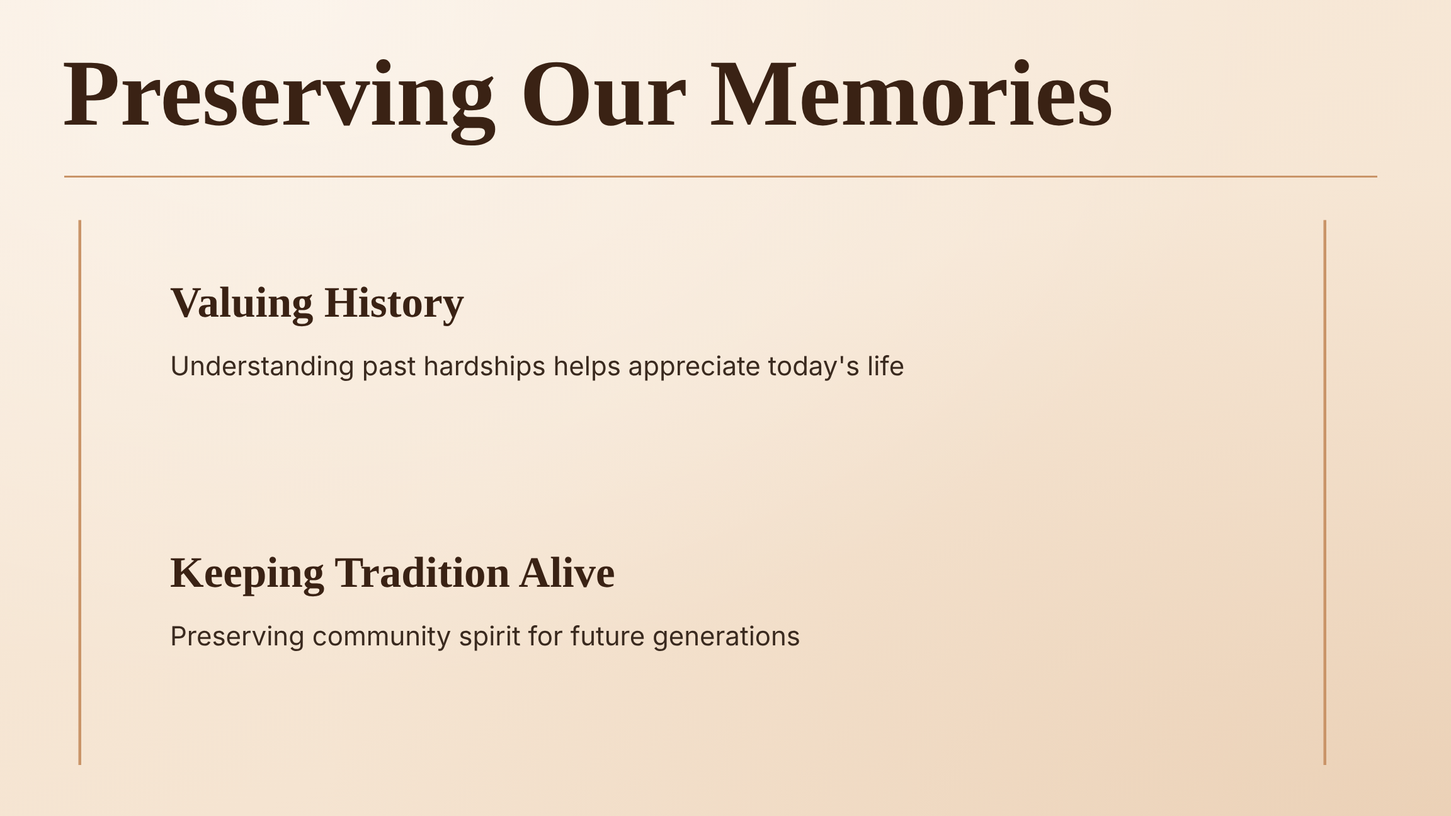
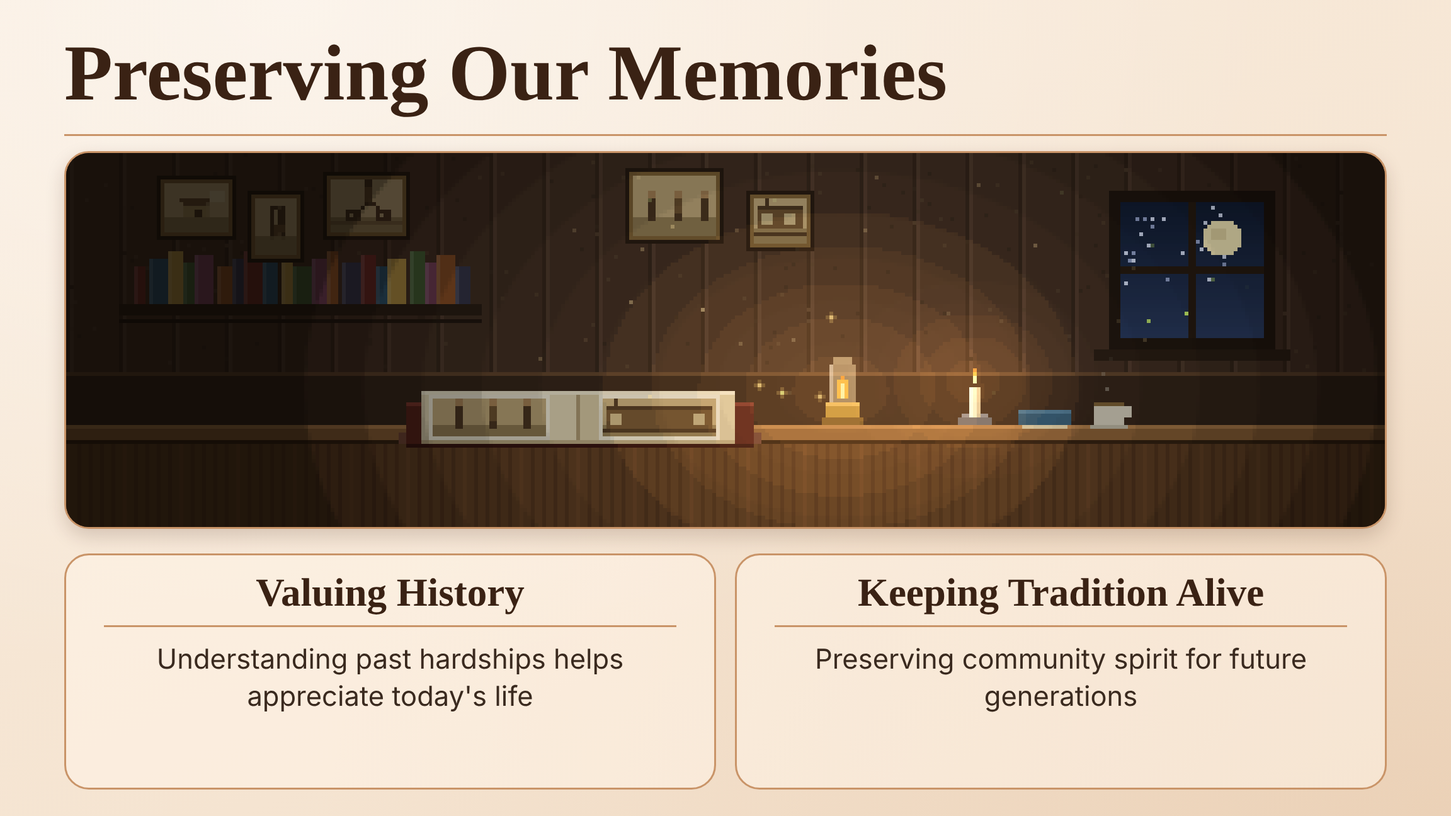
Slide 9: phòng ký ức pixel (album tự lật, đèn dầu truyền lửa sang nến)
Claude-Session: https://claude.ai/code/session_015dETkK63Reb6JNnJAvDzmD

diff --git a/slide9-anim.html b/slide9-anim.html
@@ -1,0 +1,342 @@
+<!DOCTYPE html>
+<html lang="en">
+<head>
+  <meta charset="UTF-8">
+  <meta name="viewport" content="width=device-width, initial-scale=1.0">
+  <title>Slide 9 - preserving memories</title>
+  <link rel="preconnect" href="https://fonts.googleapis.com">
+  <link rel="preconnect" href="https://fonts.gstatic.com" crossorigin>
+  <link href="https://fonts.googleapis.com/css2?family=Tinos:wght@400;700&family=Public+Sans:wght@400;500&display=swap" rel="stylesheet">
+  <link rel="stylesheet" href="slides.css">
+  <style>
+    html, body { background: #1b1412; }
+    body { padding: 0; overflow: hidden; }
+    .deck { position: absolute; left: 0; top: 0; transform-origin: 0 0; zoom: 1; display: block; gap: 0; }
+    /* Bố cục slide 9: phòng ký ức rộng ở trên, hai thẻ ý chính nằm ngay dưới */
+    .s9 .title { top: 34px; left: 68px; font-size: 84px; }
+    .s9 .rule { top: 142px; left: 68px; right: 68px; }
+    .vpanel { left: 68px; top: 160px; width: 1400px; height: 400px; border: 2px solid var(--line); border-radius: 26px; overflow: hidden;
+              box-shadow: 0 8px 20px rgba(60,30,10,.18); background: #2a1c12; }
+    #scene { position: absolute; left: 0; top: 0; width: 1400px; height: 400px; image-rendering: pixelated; }
+    .s9 .card { position: absolute; padding: 16px 40px 0; align-items: stretch; justify-content: flex-start; text-align: center; }
+    .s9 .card h3 { font-size: 42px; padding-bottom: 10px; margin-bottom: 14px; border-bottom: 2px solid var(--line); }
+    .s9 .card p { font: 400 29px/1.35 var(--sans); max-width: none; }
+    .s9 .c1 { left: 68px; top: 586px; width: 690px; height: 250px; }
+    .s9 .c2 { left: 778px; top: 586px; width: 690px; height: 250px; }
+  </style>
+</head>
+<body>
+<!--
+  SLIDE 9 (động): căn phòng ký ức ban đêm - bàn gỗ, cuốn album ảnh cũ tự lật trang (nhà tranh, giếng, xe đạp, trẻ chơi, xe điện),
+  đèn dầu chập chờn, hạt sáng bay lên, đom đóm ngoài cửa sổ. Mỗi 22 giây ngọn lửa truyền từ đèn dầu sang cây nến nhỏ:
+  "giữ lửa" cho thế hệ sau. Cảnh vẽ bằng code trong <canvas id="scene"> (350x100 điểm ảnh, mỗi điểm = 4px).
+  Mở với ?still=giây để dừng ở một khung hình.
+-->
+<main class="deck">
+  <section class="slide s9" id="slide9">
+    <h2 class="title">Preserving Our Memories</h2>
+    <hr class="rule">
+    <div class="vpanel"><canvas id="scene" width="350" height="100"></canvas></div>
+    <article class="card c1"><h3>Valuing History</h3><p>Understanding past hardships helps appreciate today's life</p></article>
+    <article class="card c2"><h3>Keeping Tradition Alive</h3><p>Preserving community spirit for future generations</p></article>
+  </section>
+</main>
+
+<script>
+(() => {
+  const EMBED = location.search.includes('embed');
+  const STILL = (/[?&]still=([\d.]+)/.exec(location.search) || [])[1];
+  const deck = document.querySelector('.deck');
+  function fit() {
+    const k = EMBED ? Math.max(innerWidth / 1536, innerHeight / 864) : Math.min(innerWidth / 1536, innerHeight / 864);
+    Object.assign(deck.style, { transform: 'scale(' + k + ')', left: ((innerWidth - 1536 * k) / 2) + 'px', top: ((innerHeight - 864 * k) / 2) + 'px' });
+  }
+  if (EMBED) document.body.style.cssText = 'background:transparent;padding:0;overflow:hidden';
+  addEventListener('resize', fit); fit();
+
+  const W = 350, H = 100;
+  const cv = document.getElementById('scene'), g = cv.getContext('2d');
+  const bgc = document.createElement('canvas'); bgc.width = W; bgc.height = H;
+  const bg = bgc.getContext('2d');
+  const mulberry = (a) => () => { a |= 0; a = a + 0x6D2B79F5 | 0; let t = Math.imul(a ^ a >>> 15, 1 | a); t = t + Math.imul(t ^ t >>> 7, 61 | t) ^ t; return ((t ^ t >>> 14) >>> 0) / 4294967296; };
+  const srnd = mulberry(1980);
+  let seed = 11;
+  const rnd = () => { seed |= 0; seed = seed + 0x6D2B79F5 | 0; let t = Math.imul(seed ^ seed >>> 15, 1 | seed); t = t + Math.imul(t ^ t >>> 7, 61 | t) ^ t; return ((t ^ t >>> 14) >>> 0) / 4294967296; };
+  const lerp = (a, b, t) => a + (b - a) * t;
+  const hex = (h) => [parseInt(h.slice(1, 3), 16), parseInt(h.slice(3, 5), 16), parseInt(h.slice(5, 7), 16)];
+  const mix = (a, b, t) => 'rgb(' + hex(a).map((v, i) => Math.round(lerp(v, hex(b)[i], t))).join(',') + ')';
+  const R = (c, x, y, w, h, col) => { c.fillStyle = col; c.fillRect(Math.round(x), Math.round(y), w, h); };
+  function px(c, x, y, col) { c.fillStyle = col; c.fillRect(Math.round(x), Math.round(y), 1, 1); }
+  function line(fn, x0, y0, x1, y1) { const n = Math.max(Math.abs(x1 - x0), Math.abs(y1 - y0), 1); for (let i = 0; i <= n; i++) fn(Math.round(x0 + (x1 - x0) * i / n), Math.round(y0 + (y1 - y0) * i / n)); }
+  const L = (c, x0, y0, x1, y1, col) => line((a, b) => px(c, a, b, col), x0, y0, x1, y1);
+  const smooth = (a, b, x) => { const t = Math.max(0, Math.min(1, (x - a) / (b - a))); return t * t * (3 - 2 * t); };
+  function ellipse(c, cx, cy, rx, ry, col) {
+    c.fillStyle = col;
+    for (let y = -ry; y <= ry; y++) { const w = Math.round(rx * Math.sqrt(1 - (y * y) / (ry * ry + 0.0001))); c.fillRect(Math.round(cx - w), Math.round(cy + y), w * 2, 1); }
+  }
+  function hut(c, x, base, w, flip) {
+    const wallTop = base - 22, roofH = 24, roofTop = wallTop - roofH + 4;
+    ellipse(c, x + w / 2, base, w / 2 + 3, 2, 'rgba(70,50,20,.25)');
+    R(c, x + 4, wallTop, w - 8, 22, '#d6b688');                         // tường đất
+    for (let k = 0; k < 40; k++) R(c, x + 4 + srnd() * (w - 8), wallTop + srnd() * 22, 2, 1, srnd() < 0.5 ? '#c4a373' : '#e4c99c');
+    R(c, x + 4, wallTop, w - 8, 1, '#a98a5c');
+    const dx = flip ? x + w - 22 : x + 12;
+    R(c, dx, wallTop + 8, 10, 14, '#4a3320'); R(c, dx + 1, wallTop + 9, 8, 13, '#2f2014');         // cửa
+    const wx = flip ? x + 10 : x + w - 20;
+    R(c, wx, wallTop + 6, 8, 7, '#5a4128'); R(c, wx + 1, wallTop + 7, 6, 5, '#caa66e'); R(c, wx + 4, wallTop + 7, 1, 5, '#5a4128');   // cửa sổ
+    for (let r = 0; r < roofH; r++) {                                   // mái lá: tam giác thô, vệt rơm
+      const hw = Math.round(w / 2 - 2 + r * 0.28 - (roofH - r) * 0.9 * (w / 56) + (roofH - r) * 0.9 * (w / 56) - (roofH - r) * (w / 2 - 6) / roofH + 6);
+      const half = Math.round(6 + r * ((w / 2 + 2) - 6) / (roofH - 1));
+      const cx = x + w / 2;
+      R(c, cx - half, roofTop + r, half * 2, 1, r % 4 === 3 ? '#7d5a30' : '#a07844');
+      if (r % 4 !== 3) for (let k = 0; k < half / 3; k++) R(c, cx - half + srnd() * half * 2, roofTop + r, 1, 1, srnd() < 0.5 ? '#b88c52' : '#8a6535');
+      R(c, cx - half, roofTop + r, 1, 1, '#6e4c28'); R(c, cx + half - 1, roofTop + r, 1, 1, '#6e4c28');
+      void hw;
+    }
+    R(c, x + w / 2 - 6, roofTop - 1, 12, 2, '#6e4c28');                 // nóc
+    R(c, x + w / 2 - 1, roofTop - 4, 2, 4, '#6e4c28');                  // chóp
+  }
+  function banana(c, x, base) {
+    R(c, x, base - 16, 2, 16, '#7d9a4a');
+    for (let k = 0; k < 6; k++) {
+      const s = k < 3 ? -1 : 1, len = 8 + (k % 3) * 2;
+      for (let i = 0; i < len; i++) { R(c, x + 1 + s * i, base - 18 + Math.round(i * i * 0.04) + (k % 3) * 2, 2, 1, i % 2 ? '#5d9a3c' : '#74b04a'); }
+    }
+  }
+
+  function cloud(c, x, y, s) {
+    const rows = [[3, 7], [1, 11], [0, 13], [1, 12]];
+    rows.forEach(([a, w], i) => { R(c, x + a * s, y + i * s, Math.round(w * s), Math.max(1, Math.round(s)), i === 3 ? '#e8dcc8' : '#fffbf2'); });
+    if (s > 1.1) R(c, x + 6 * s, y - 1 * s, Math.round(5 * s), Math.max(1, Math.round(s)), '#fffbf2');
+  }
+  function bamboo(c, x, h, t, ph) {
+    const base = 134;
+    for (let j = 0; j < 4; j++) {
+      const bx = x + j * 4 + (j % 2), hh = h - j * 5, sw = Math.sin(t * 1.3 + ph + j);
+      for (let y = 0; y < hh; y++) {
+        const off = Math.round(sw * (y / hh) * (y / hh) * 3);
+        R(c, bx + off, base - y, 2, 1, y % 9 === 0 ? '#3f6a22' : (y % 9 < 4 ? '#7fb246' : '#68a03a'));
+      }
+      const tx = bx + Math.round(sw * 3), ty = base - hh;
+      for (let k = 0; k < 6; k++) {
+        const s = k % 2 ? 1 : -1, len = 6 + (k % 3) * 2;
+        for (let i = 0; i < len; i++) R(c, tx + s * i, ty + Math.round(i * 0.55) + (k >> 1) * 3 + Math.round(Math.sin(t * 2 + k + ph) * 0.6), 2, 1, i % 3 ? '#79b043' : '#5f9a34');
+      }
+    }
+  }
+  function areca(c, x, t) {                 // cây cau
+    const base = 134, h = 66, sw = Math.sin(t * 1.1 + 1.7);
+    for (let y = 0; y < h; y++) R(c, x + Math.round(sw * (y / h) * (y / h) * 2), base - y, 2, 1, y % 6 === 0 ? '#7a6a48' : '#9a8a64');
+    const tx = x + Math.round(sw * 2), ty = base - h;
+    for (let k = 0; k < 6; k++) {
+      const s = k % 2 ? 1 : -1, len = 9 + (k % 3) * 2;
+      for (let i = 0; i < len; i++) R(c, tx + s * i, ty + Math.round(i * i * 0.07) + (k >> 1) * 2 + Math.round(Math.sin(t * 2.2 + k) * 0.7), 2, 1, i % 2 ? '#4f8a35' : '#63a042');
+    }
+  }
+  function chicken(c, x, y, t, ph) {
+    const peck = Math.sin(t * 3 + ph) > 0.5 ? 2 : 0;
+    R(c, x, y - 4, 5, 3, '#a8562a'); R(c, x - 1, y - 5, 2, 2, '#8a4220'); R(c, x + 4, y - 6 + peck, 2, 2, '#b86a30'); R(c, x + 4, y - 8 + peck, 1, 1, '#d33'); R(c, x + 6, y - 5 + peck, 1, 1, '#e8a030');
+    R(c, x + 1, y - 1, 1, 2, '#c8a050'); R(c, x + 3, y - 1, 1, 2, '#c8a050');
+  }
+  function bird(c, b, t) {
+    const x = Math.round(b.x), y = Math.round(b.y + Math.sin(t * 2 + b.p) * 2), up = Math.floor(t * 6 + b.p * 3) % 2;
+    c.fillStyle = '#44403c';
+    if (up) { c.fillRect(x - 3, y - 2, 2, 1); c.fillRect(x - 1, y - 1, 2, 1); c.fillRect(x + 1, y - 2, 2, 1); }
+    else { c.fillRect(x - 3, y, 2, 1); c.fillRect(x - 1, y - 1, 2, 1); c.fillRect(x + 1, y, 2, 1); }
+  }
+  // ================= NGƯỜI (pixel) =================
+  function person(o, t) {
+    const d = o.d, k = o.k || 1, ph = o.ph, mv = o.moving;
+    const sw = mv ? Math.sin(ph) : 0, bob = mv ? Math.abs(Math.cos(ph)) * 1.2 * k : 0;
+    const X = Math.round(o.x), Y = Math.round(o.y);
+    const r = (x, y, w, h, col) => {
+      const px = d > 0 ? x : -x - w;
+      g.fillStyle = col;
+      g.fillRect(Math.round(X + px * k), Math.round(Y + y * k - bob), Math.max(1, Math.round(w * k)), Math.max(1, Math.round(h * k)));
+    };
+    g.fillStyle = 'rgba(60,40,15,.28)'; g.fillRect(Math.round(X - 6 * k), Y, Math.round(12 * k), 1);                  // bóng
+    const s = Math.round(sw * 3 * k), lift1 = mv && Math.cos(ph) > 0 ? 1 : 0, lift2 = mv && Math.cos(ph) < 0 ? 1 : 0;
+    const st = o.style;
+    // chân (quần ống rộng) + dép
+    r(-3 - s, -9 + lift2, 3, 9 - lift2, st.pantsD || st.pants); r(-3 - s, -1 - lift2 * 0, 3, 1, '#2b1d12');
+    r(1 + s, -9 + lift1, 3, 9 - lift1, st.pants); r(1 + s, -1, 3, 1, '#2b1d12');
+    if (o.cane) r(6, -14, 1, 14, '#6b4a2a');
+    // tay xa
+    r(-1 + Math.round(sw * 2.2 * k), -18, 2, 7, st.shirtD, 0);
+    // thân áo + khăn
+    r(-3, -19, 7, 10, st.shirt); r(-3, -10, 7, 1, st.shirtD); r(2, -18, 1, 8, st.shirtL);
+    if (st.scarf) { r(-3, -19, 7, 1, '#ece8da'); r(-2, -19, 1, 1, '#555'); r(0, -19, 1, 1, '#555'); r(2, -19, 1, 1, '#555'); r(-3, -18, 1, 5, '#ece8da'); r(-3, -16, 1, 1, '#555'); }
+    // tay gần
+    r(-1 - Math.round(sw * 2.2 * k), -18, 2, 7, st.shirt); r(-1 - Math.round(sw * 2.2 * k), -11, 2, 1, '#e3b184');
+    // đầu
+    const hx = o.stoop ? 1 : 0;
+    r(-1, -20, 3, 1, '#e3b184'); r(-2 + hx, -24, 5, 4, '#e8b98a'); r(2 + hx, -23, 1, 1, '#222');
+    if (st.hat === 'non') {                                   // nón lá
+      for (const [hy, hw] of [[-31, 1], [-30, 3], [-29, 5], [-28, 7], [-27, 11], [-26, 15]]) {
+        r(-(hw >> 1) + hx, hy, hw, 1, '#f1dea4');
+        if (hw > 1) r(1 + hx, hy, (hw >> 1), 1, hy > -28 ? '#d2b672' : '#dcc588');
+      }
+      r(-7 + hx, -25, 15, 1, '#a88b4a'); r(-2 + hx, -24, 1, 3, '#c9485a');
+    } else if (st.hat === 'coi') {                            // mũ cối
+      r(-3 + hx, -28, 7, 1, '#6a8a4c'); r(-4 + hx, -27, 9, 2, '#5f7e44'); r(-6 + hx, -25, 13, 1, '#465f32'); r(0 + hx, -27, 1, 1, '#d24');
+    } else if (st.hat === 'khan') {                           // khăn đội đầu
+      r(-3 + hx, -26, 7, 3, '#cfcab8'); r(-3 + hx, -26, 7, 1, '#e8e4d4'); r(-1 + hx, -24, 1, 1, '#555');
+    }
+    if (o.pole) {                                             // đòn gánh + 2 thúng
+      const b = Math.round(Math.sin(ph * 2) * 1.2 * k);
+      r(-13, -20 + b, 13, 1, '#8a6a3a'); r(0, -20 - b, 14, 1, '#8a6a3a');
+      for (const [bx, by, sg] of [[-13, b, 1], [13, -b, 2]]) {
+        r(bx, -19 + by, 1, 8, '#6b5530');
+        r(bx - 3, -11 + by, 7, 3, '#8a5a2a'); r(bx - 3, -12 + by, 7, 1, '#aa7a3a'); r(bx - 2, -13 + by, 5, 1, sg === 1 ? '#5f9a3a' : '#d9b04a');
+      }
+    }
+  }
+  // ================= TRANG PHỤC (VN ~1980) =================
+  const STY = {
+    woman:  { shirt: '#6b4a32', shirtD: '#563a27', shirtL: '#7e5a40', pants: '#2c2724', hat: 'non', scarf: true },
+    black:  { shirt: '#34302d', shirtD: '#27231f', shirtL: '#4a4540', pants: '#25201d', hat: 'non', scarf: true },
+    indigo: { shirt: '#3d5382', shirtD: '#2f4068', shirtL: '#4f679c', pants: '#2c2724', hat: 'non', scarf: false },
+    white:  { shirt: '#ebe6d6', shirtD: '#cfc9b6', shirtL: '#fffaf0', pants: '#6b5a3a', hat: 'coi', scarf: false },
+    elder:  { shirt: '#8a6f4a', shirtD: '#715a3b', shirtL: '#9b8058', pants: '#2c2724', hat: 'khan', scarf: false },
+    boy:    { shirt: '#c08a44', shirtD: '#a47235', shirtL: '#d09c56', pants: '#5a4a35', hat: 'non', scarf: false },
+    kid:    { shirt: '#b84a3a', shirtD: '#9a3c2e', shirtL: '#c85e4c', pants: '#3a3a52', hat: 'non', scarf: false }
+  };
+  // ================= CĂN PHÒNG KÝ ỨC: bàn gỗ, đèn dầu, album ảnh cũ =================
+  const LAMP = { x: 205, y: 60 }, CAN = { x: 240, y: 64 }, SPINE = 135, CYC = 22;
+  const WALL = '#4a3426';
+  function drawBackground() {
+    const c = bg;
+    R(c, 0, 0, W, 72, WALL);
+    for (let x = 0; x < W; x += 14) { R(c, x, 0, 1, 72, '#3b291d'); R(c, x + 1, 0, 1, 72, '#5a4132'); }
+    for (let k = 0; k < 260; k++) R(c, srnd() * W, srnd() * 72, 1, 1, srnd() < 0.5 ? '#3f2d20' : '#56402f');
+    R(c, 0, 58, W, 14, '#3a281c'); R(c, 0, 58, W, 1, '#6a4a30');                    // ván chân tường
+    // cửa sổ ban đêm
+    R(c, 276, 10, 44, 42, '#241810'); R(c, 279, 13, 38, 36, '#142039');
+    for (let y = 13; y < 49; y++) R(c, 279, y, 38, 1, mix('#0f1a31', '#26365a', (y - 13) / 36));
+    for (let k = 0; k < 26; k++) px(c, 280 + srnd() * 36, 14 + srnd() * 20, srnd() < 0.5 ? '#cfd8f0' : '#8d9cc4');
+    ellipse(c, 306, 22, 5, 5, '#f3e7b8'); ellipse(c, 305, 21, 2, 2, '#e0d3a2');
+    R(c, 297, 13, 2, 36, '#241810'); R(c, 279, 30, 38, 2, '#241810');
+    R(c, 272, 52, 52, 3, '#2f2016');
+    // kệ sách + sách
+    R(c, 14, 40, 96, 3, '#2f2016');
+    const cols = ['#7a2f2a', '#2f5a78', '#c9a24a', '#4a6a3a', '#8a4a6a', '#a05a2a', '#3b3b55'];
+    for (let x = 18, i = 0; x < 106; i++) { const w = 3 + (i * 5 % 3), h = 10 + (i * 7 % 5); R(c, x, 40 - h, w, h, cols[i % cols.length]); R(c, x, 40 - h, 1, h, 'rgba(255,255,255,.14)'); x += w + (i % 4 === 0 ? 1 : 0); }
+    R(c, 14, 44, 96, 1, '#241810');
+    // ảnh đóng khung trên tường
+    const frames = [[26, 8, 17, 13], [50, 12, 11, 15], [70, 7, 19, 14], [150, 6, 22, 16], [182, 12, 14, 12]];
+    frames.forEach(([x, y, w, h], i) => { R(c, x - 2, y - 2, w + 4, h + 4, '#2a1c12'); R(c, x - 1, y - 1, w + 2, h + 2, '#8a6a3a'); R(c, x, y, w, h, '#d9c49a'); vig(c, i, x, y, w, h); });
+    // mặt bàn
+    R(c, 0, 72, W, 4, '#9a6a3c'); R(c, 0, 72, W, 1, '#c28a52'); R(c, 0, 76, W, 24, '#6a4526');
+    for (let x = 0; x < W; x += 3) R(c, x, 77, 1, 23, ((x / 3) | 0) % 5 ? '#5c3a20' : '#744b2a');
+    R(c, 0, 76, W, 1, '#3a2412');
+    // thảm ren dưới album
+    R(c, 88, 74, 96, 3, '#7a4a3a');
+  }
+  // ảnh nhỏ sepia: 0 nhà tranh, 1 giếng, 2 xe đạp, 3 trẻ chơi, 4 chợ/xe điện
+  function vig(c, i, x, y, w, h) {
+    c.save(); c.beginPath(); c.rect(x, y, w, h); c.clip();
+    const sk = '#e3cd9c', gr = '#a8946a', dk = '#4a3626', md = '#76593a', gy = y + h * 0.68;
+    R(c, x, y, w, h, sk); R(c, x, gy, w, h, gr);
+    if (i === 0) { for (let k = 0; k < 5; k++) R(c, x + w * 0.25 + k, y + h * 0.3 + k, w * 0.5 - 2 * k, 1, md); R(c, x + w * 0.3, gy - 3, w * 0.4, 3, '#c8b078'); R(c, x + w * 0.5 - 1, gy - 2, 2, 2, dk); ellipse(c, x + w * 0.8, y + 3, 2, 2, '#f6e8bc'); }
+    if (i === 1) { R(c, x + w * 0.4, gy - 3, w * 0.25, 3, md); R(c, x + w * 0.38, y + 2, 1, gy - y - 2, dk); R(c, x + w * 0.62, y + 2, 1, gy - y - 2, dk); R(c, x + w * 0.38, y + 2, w * 0.25, 1, dk); R(c, x + w * 0.5, y + 3, 1, 4, dk); R(c, x + w * 0.5 - 1, y + 7, 3, 2, md); }
+    if (i === 2) { R(c, x, gy + 1, w, 1, '#8a7650'); const bx = x + w * 0.5; ellipse(c, bx - 4, gy - 1, 2, 2, dk); ellipse(c, bx + 4, gy - 1, 2, 2, dk); ellipse(c, bx - 4, gy - 1, 1, 1, sk); ellipse(c, bx + 4, gy - 1, 1, 1, sk); L(c, bx - 4, gy - 1, bx, gy - 4, dk); L(c, bx, gy - 4, bx + 4, gy - 1, dk); R(c, bx - 1, gy - 8, 2, 4, md); R(c, bx - 1, gy - 10, 2, 2, dk); }
+    if (i === 3) { for (let k = 0; k < 3; k++) { const px0 = x + w * (0.2 + k * 0.3); R(c, px0, gy - 5, 2, 4, k % 2 ? md : dk); R(c, px0, gy - 7, 2, 2, '#c8a070'); R(c, px0, gy - 1, 1, 2, dk); R(c, px0 + 1, gy - 1, 1, 2, dk); } }
+    if (i === 4) { R(c, x + 1, y + 3, w - 2, 5, md); R(c, x + 1, y + 2, w - 2, 1, dk); R(c, x + 2, y + 4, 3, 3, '#e8d8a8'); R(c, x + w - 6, y + 4, 3, 3, '#e8d8a8'); R(c, x, gy + 1, w, 1, dk); R(c, x + 3, y, 1, 3, dk); }
+    c.fillStyle = 'rgba(120,80,30,.18)'; c.fillRect(x, y, w, h);
+    c.restore();
+  }
+  function hexOf(rgb) { const m = /(\d+),(\d+),(\d+)/.exec(rgb); return '#' + [1, 2, 3].map((i) => (+m[i]).toString(16).padStart(2, '0')).join(''); }
+  const lg = document.createElement('canvas'); lg.width = W; lg.height = H; const lc = lg.getContext('2d');
+  const motes = Array.from({ length: 34 }, (_, i) => ({ x: LAMP.x + (srnd() - 0.5) * 150, y: 20 + srnd() * 52, v: 2.5 + srnd() * 3.5, p: srnd() * 6.28, g: i % 5 === 0 }));
+  const flies = Array.from({ length: 7 }, () => ({ x: 281 + srnd() * 34, y: 17 + srnd() * 30, p: srnd() * 6.28 }));
+  function stepScene(dt, t) { motes.forEach((m) => { m.y -= m.v * dt; m.x += Math.sin(t * 0.8 + m.p) * 3 * dt; if (m.y < 6) { m.y = 70; m.x = LAMP.x + (srnd() - 0.5) * 150; } }); }
+  function stepActors() {}
+  const PAGES = [0, 1, 2, 3, 4];
+  function pageAt(t) {                           // trang trái / phải hiện tại + tiến độ lật
+    const per = 4.2, n = Math.floor(t / per), ph = (t % per) / per, fl = Math.max(0, (ph - 0.78) / 0.22);
+    return { a: PAGES[(2 * n) % 5], b: PAGES[(2 * n + 1) % 5], c: PAGES[(2 * n + 2) % 5], fl };
+  }
+  function album(t) {
+    const P = pageAt(t);
+    R(g, 90, 66, 92, 12, '#5e241d'); R(g, 90, 66, 92, 1, '#8a3c30'); R(g, 90, 77, 92, 1, '#3a1410');
+    R(g, 94, 63, 41, 14, '#efe2bf'); R(g, 136, 63, 41, 14, '#e8d8b0'); R(g, 135, 63, 1, 14, '#b8a37a');
+    R(g, 94, 63, 83, 1, '#fff6dc'); R(g, 94, 76, 83, 1, '#cdb98e');
+    const vgi = (i, x) => { R(g, x - 1, 64, 32, 12, '#fff8e4'); vig(g, i, x, 65, 30, 10); };
+    vgi(P.a, 97);
+    if (P.fl <= 0) vgi(P.b, 142);
+    else {
+      vgi(P.c, 142);
+      const ang = P.fl * Math.PI, w = Math.max(1, Math.round(Math.abs(Math.cos(ang)) * 41)), left = P.fl >= 0.5;
+      const x0 = left ? SPINE - w : SPINE;
+      R(g, x0, 62, w, 15, left ? '#e4d3aa' : '#efe2bf'); R(g, x0, 62, w, 1, '#fff6dc');
+      if (w > 14) { const vx = left ? x0 + 3 : x0 + 6; g.save(); g.beginPath(); g.rect(x0, 62, w, 15); g.clip(); R(g, vx - 1, 64, Math.min(32, w - 4), 12, '#fff8e4'); vig(g, P.b, vx, 65, Math.min(30, w - 6), 10); g.restore(); }
+      g.fillStyle = 'rgba(40,20,5,' + (0.25 * Math.sin(ang)) + ')'; g.fillRect(left ? SPINE : SPINE + w, 63, 4, 14);
+    }
+  }
+  function lamp(t) {
+    const fl = 1 + Math.sin(t * 9) * 0.05 + Math.sin(t * 23) * 0.03;
+    R(g, 200, 70, 11, 2, '#7a5a2a'); R(g, 201, 66, 9, 4, '#b8903e'); R(g, 201, 66, 9, 1, '#e0b862');
+    R(g, 202, 56, 7, 10, 'rgba(255,236,190,.45)'); R(g, 202, 56, 1, 10, 'rgba(255,255,255,.35)'); R(g, 203, 54, 5, 2, 'rgba(255,236,190,.5)');
+    const fh = Math.round(5 * fl); R(g, 204, 65 - fh, 3, fh, '#ffb84a'); R(g, 205, 65 - fh + 1, 1, fh - 1, '#fff1b0'); px(g, 205, 65 - fh - 1, '#ff9a3a');
+  }
+  function candle(t, lit, grow) {
+    R(g, 236, 70, 9, 2, '#6a6a70'); R(g, 237, 69, 7, 1, '#8a8a90'); R(g, 239, 62, 3, 8, '#f1e6c8'); R(g, 239, 62, 1, 8, '#fff8e8'); R(g, 241, 62, 1, 8, '#cdbf9c');
+    if (lit) { const fh = 3 + Math.round(1 + Math.sin(t * 11)) * (grow > 0.5 ? 1 : 0); R(g, 240, 61 - fh, 1, fh, '#ffb84a'); px(g, 240, 61 - fh - 1, '#ff8a3a'); R(g, 240, 61 - fh + 1, 1, fh - 1, '#fff1b0'); }
+    else px(g, 240, 61, '#2a2a2a');
+  }
+  function cup(t) {
+    R(g, 272, 66, 8, 6, '#e9e2d0'); R(g, 272, 66, 8, 1, '#8a6a3a'); R(g, 280, 67, 2, 3, '#e9e2d0'); R(g, 271, 72, 10, 1, '#cfc8b4');
+    for (let i = 0; i < 3; i++) { const q = (t * 0.5 + i / 3) % 1; g.globalAlpha = 0.5 * (1 - q); px(g, 275 + Math.sin(q * 7 + i) * 1.6, 64 - q * 12, '#e8e2d4'); g.globalAlpha = 1; }
+  }
+  function draw(t) {
+    g.drawImage(bgc, 0, 0);
+    // đom đóm ngoài cửa sổ
+    flies.forEach((f, i) => { const a = 0.5 + 0.5 * Math.sin(t * 2.2 + f.p); g.globalAlpha = a; px(g, f.x + Math.sin(t * 0.6 + f.p) * 5, f.y + Math.cos(t * 0.5 + f.p) * 3, '#c8f26a'); g.globalAlpha = 1; });
+    const cy = t % CYC, lit = cy >= 15.5, ig = Math.max(0, Math.min(1, (cy - 14) / 1.5));
+    album(t); cup(t); lamp(t);
+    // sách khép, bút lông
+    R(g, 252, 68, 14, 4, '#2f5a78'); R(g, 252, 68, 14, 1, '#4a7a9a'); R(g, 253, 72, 12, 1, '#e8d8b0');
+    candle(t, lit, lit ? 1 : 0);
+    // tia lửa truyền từ đèn sang nến
+    if (ig > 0 && ig < 1) { const sx = lerp(206, 240, ig), sy = lerp(58, 59, ig) - Math.sin(ig * Math.PI) * 14; R(g, sx, sy, 2, 2, '#fff1b0'); g.globalAlpha = 0.5; px(g, sx - 2, sy + 1, '#ffb84a'); px(g, sx - 4, sy + 2, '#ff9a3a'); g.globalAlpha = 1; }
+    // tối đi quanh phòng, sáng ở chỗ đèn
+    lc.globalCompositeOperation = 'source-over'; lc.clearRect(0, 0, W, H); lc.fillStyle = 'rgba(8,5,3,.74)'; lc.fillRect(0, 0, W, H);
+    lc.globalCompositeOperation = 'destination-out';
+    const fk = 1 + Math.sin(t * 9) * 0.03 + Math.sin(t * 23) * 0.02;
+    for (let i = 0; i < 9; i++) { const rx = (16 + i * 15) * fk; lc.fillStyle = 'rgba(0,0,0,.16)'; lc.beginPath(); lc.ellipse(LAMP.x, 62, rx, rx * 0.72, 0, 0, 7); lc.fill(); }
+    if (lit) for (let i = 0; i < 5; i++) { const rx = (6 + i * 7) * (1 + Math.sin(t * 11) * 0.04); lc.fillStyle = 'rgba(0,0,0,.18)'; lc.beginPath(); lc.ellipse(CAN.x, 60, rx, rx * 0.8, 0, 0, 7); lc.fill(); }
+    // cửa sổ: ánh trăng nhẹ
+    lc.fillStyle = 'rgba(0,0,0,.45)'; lc.fillRect(279, 13, 38, 36);
+    g.drawImage(lg, 0, 0);
+    // quầng ấm
+    g.globalCompositeOperation = 'lighter';
+    for (let i = 5; i >= 1; i--) { g.globalAlpha = 0.045; ellipse(g, LAMP.x, 62, 12 * i * fk, 9 * i * fk, '#ff9a3a'); }
+    if (lit) for (let i = 3; i >= 1; i--) { g.globalAlpha = 0.04; ellipse(g, CAN.x, 60, 7 * i, 6 * i, '#ff9a3a'); }
+    g.globalAlpha = 1; g.globalCompositeOperation = 'source-over';
+    // hạt sáng lơ lửng
+    motes.forEach((m) => { const d = Math.hypot(m.x - LAMP.x, (m.y - 62) * 1.4), a = Math.max(0, 1 - d / 110) * (0.55 + 0.45 * Math.sin(t * 3 + m.p)); if (a < 0.05) return; g.globalAlpha = a; R(g, m.x, m.y, 1, 1, m.g ? '#d8ff9a' : '#ffe2a0'); if (a > 0.6) { g.globalAlpha = a * 0.35; R(g, m.x - 1, m.y, 3, 1, '#ffd070'); R(g, m.x, m.y - 1, 1, 3, '#ffd070'); } g.globalAlpha = 1; });
+  }
+
+  drawBackground();
+  let t = 0, last = 0, acc = 0;
+  const FIX = 1 / 60;
+  function stepAll(dt) { t += dt; stepScene(dt, t); }
+  for (let i = 0; i < 240; i++) stepAll(FIX);
+  t = 0;
+  function loop(now) {
+    acc += Math.min(0.1, (now - last) / 1000); last = now;
+    while (acc >= FIX) { stepAll(FIX); acc -= FIX; }
+    draw(t);
+    requestAnimationFrame(loop);
+  }
+  if (STILL) { const n = Math.round(parseFloat(STILL) / FIX); for (let i = 0; i < n; i++) stepAll(FIX); draw(t); window.__ready = true; }
+  else { last = performance.now(); requestAnimationFrame(loop); }
+  addEventListener('keydown', (e) => {
+    if (!EMBED || window.parent === window) return;
+    if (e.key === 'Backspace') e.preventDefault();
+    window.parent.postMessage({ type: 'slide-key', key: e.key }, '*');
+  });
+})();
+</script>
+</body>
+</html>

diff --git a/index.html b/index.html
@@ -1121,7 +1121,7 @@
     const tickerTrack = document.getElementById('ticker-track');
     const anim3 = document.getElementById('anim3');
     // Slide có bản động (iframe phủ lên): slide 2 (cọ sơn + bút chì vẽ), slide 3 (gió + keo dán), slide 4 (phố xe đạp), slide 5 (bếp), slide 6 (giếng + mất điện), slide 7 (làng quê), slide 10 (cảnh kết: ghế, sân khấu, pháo hoa)
-    const ANIM_SRC = { 1: 'slide2-anim.html?embed', 2: 'slide3-anim.html?embed', 3: 'slide4-anim.html?embed', 4: 'slide5-anim.html?embed', 5: 'slide6-anim.html?embed', 6: 'slide7-anim.html?embed', 7: 'slide8-anim.html?embed', 9: 'slide10-anim.html?embed' };
+    const ANIM_SRC = { 1: 'slide2-anim.html?embed', 2: 'slide3-anim.html?embed', 3: 'slide4-anim.html?embed', 4: 'slide5-anim.html?embed', 5: 'slide6-anim.html?embed', 6: 'slide7-anim.html?embed', 7: 'slide8-anim.html?embed', 8: 'slide9-anim.html?embed', 9: 'slide10-anim.html?embed' };
     const BLANK_SLIDE = 'assets/anim-blank.png';            // nền đen cho slide 2 lúc chưa vẽ
     const slidePath = (i) => (i === 1 || i === 9) ? BLANK_SLIDE : slideImages[i];   // slide 2 và 10 (cảnh kết) bắt đầu từ nền đen
     let animState = null, animBusyAt = 0;                     // slide 2: 'loading' | 'wait' | 'busy' | 'done'

diff --git a/render.js b/render.js
@@ -35,6 +35,16 @@ const path = require('path');
       console.log('slide6.png (từ slide6-anim.html)');
       continue;
     }
+    if (i === 9) {   // slide 9 có phòng ký ức pixel: xuất từ slide9-anim.html (dừng ở giây thứ 17)
+      const p9 = await browser.newPage({ viewport: { width: 1536, height: 864 }, deviceScaleFactor: scale });
+      await p9.goto('file://' + path.join(__dirname, 'slide9-anim.html') + '?still=17', { waitUntil: 'load' });
+      await p9.waitForFunction('window.__ready');
+      await p9.evaluate(() => document.fonts.ready);
+      await p9.locator('#slide9').screenshot({ path: path.join(__dirname, 'slide9.png') });
+      await p9.close();
+      console.log('slide9.png (từ slide9-anim.html)');
+      continue;
+    }
     if (i === 8) {   // slide 8 có dải cảnh 1980 | 2020s: xuất từ slide8-anim.html (dừng ở giây thứ 9)
       const p8 = await browser.newPage({ viewport: { width: 1536, height: 864 }, deviceScaleFactor: scale });
       await p8.goto('file://' + path.join(__dirname, 'slide8-anim.html') + '?still=9', { waitUntil: 'load' });
